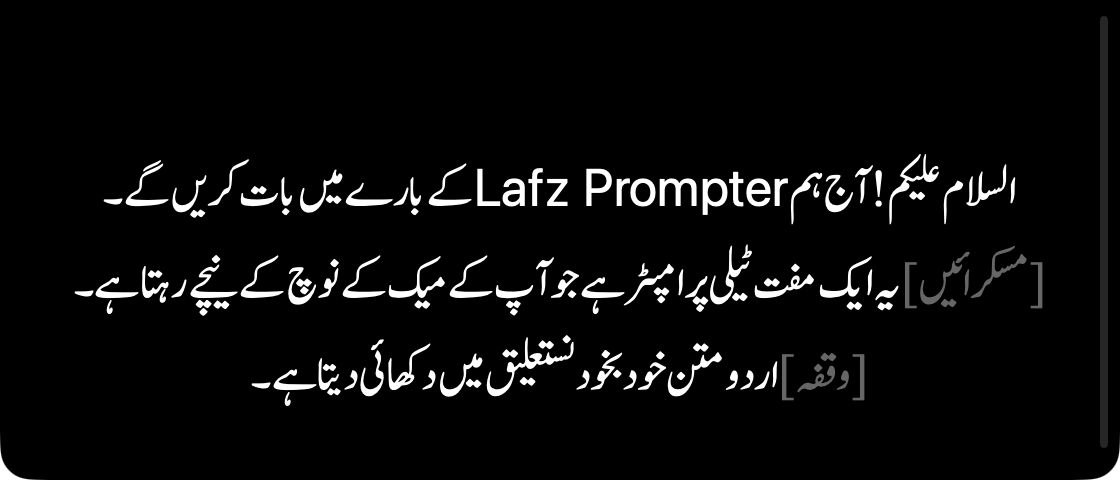
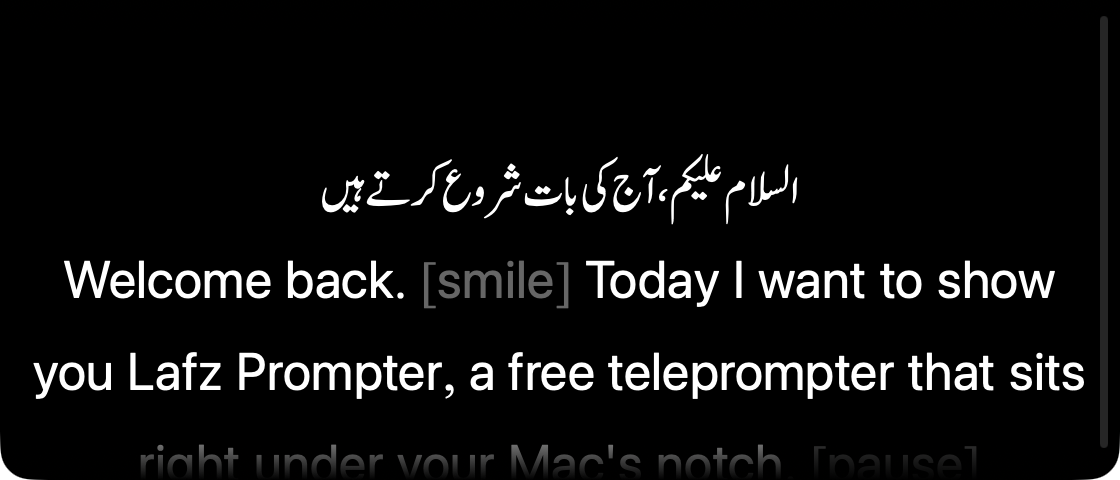
Make the website English-first with a hint of Urdu
Headline and copy now describe a general teleprompter. Urdu stays in the
logo, a small tagline, the screenshot's first line and one feature card.

diff --git a/docs/assets/main-CvcorN1z.css b/docs/assets/main-CvcorN1z.css
@@ -1,0 +1,1 @@
+*,:before,:after{--tw-border-spacing-x: 0;--tw-border-spacing-y: 0;--tw-translate-x: 0;--tw-translate-y: 0;--tw-rotate: 0;--tw-skew-x: 0;--tw-skew-y: 0;--tw-scale-x: 1;--tw-scale-y: 1;--tw-pan-x: ;--tw-pan-y: ;--tw-pinch-zoom: ;--tw-scroll-snap-strictness: proximity;--tw-gradient-from-position: ;--tw-gradient-via-position: ;--tw-gradient-to-position: ;--tw-ordinal: ;--tw-slashed-zero: ;--tw-numeric-figure: ;--tw-numeric-spacing: ;--tw-numeric-fraction: ;--tw-ring-inset: ;--tw-ring-offset-width: 0px;--tw-ring-offset-color: #fff;--tw-ring-color: rgb(59 130 246 / .5);--tw-ring-offset-shadow: 0 0 #0000;--tw-ring-shadow: 0 0 #0000;--tw-shadow: 0 0 #0000;--tw-shadow-colored: 0 0 #0000;--tw-blur: ;--tw-brightness: ;--tw-contrast: ;--tw-grayscale: ;--tw-hue-rotate: ;--tw-invert: ;--tw-saturate: ;--tw-sepia: ;--tw-drop-shadow: ;--tw-backdrop-blur: ;--tw-backdrop-brightness: ;--tw-backdrop-contrast: ;--tw-backdrop-grayscale: ;--tw-backdrop-hue-rotate: ;--tw-backdrop-invert: ;--tw-backdrop-opacity: ;--tw-backdrop-saturate: ;--tw-backdrop-sepia: ;--tw-contain-size: ;--tw-contain-layout: ;--tw-contain-paint: ;--tw-contain-style: }::backdrop{--tw-border-spacing-x: 0;--tw-border-spacing-y: 0;--tw-translate-x: 0;--tw-translate-y: 0;--tw-rotate: 0;--tw-skew-x: 0;--tw-skew-y: 0;--tw-scale-x: 1;--tw-scale-y: 1;--tw-pan-x: ;--tw-pan-y: ;--tw-pinch-zoom: ;--tw-scroll-snap-strictness: proximity;--tw-gradient-from-position: ;--tw-gradient-via-position: ;--tw-gradient-to-position: ;--tw-ordinal: ;--tw-slashed-zero: ;--tw-numeric-figure: ;--tw-numeric-spacing: ;--tw-numeric-fraction: ;--tw-ring-inset: ;--tw-ring-offset-width: 0px;--tw-ring-offset-color: #fff;--tw-ring-color: rgb(59 130 246 / .5);--tw-ring-offset-shadow: 0 0 #0000;--tw-ring-shadow: 0 0 #0000;--tw-shadow: 0 0 #0000;--tw-shadow-colored: 0 0 #0000;--tw-blur: ;--tw-brightness: ;--tw-contrast: ;--tw-grayscale: ;--tw-hue-rotate: ;--tw-invert: ;--tw-saturate: ;--tw-sepia: ;--tw-drop-shadow: ;--tw-backdrop-blur: ;--tw-backdrop-brightness: ;--tw-backdrop-contrast: ;--tw-backdrop-grayscale: ;--tw-backdrop-hue-rotate: ;--tw-backdrop-invert: ;--tw-backdrop-opacity: ;--tw-backdrop-saturate: ;--tw-backdrop-sepia: ;--tw-contain-size: ;--tw-contain-layout: ;--tw-contain-paint: ;--tw-contain-style: }*,:before,:after{box-sizing:border-box;border-width:0;border-style:solid;border-color:#e5e7eb}:before,:after{--tw-content: ""}html,:host{line-height:1.5;-webkit-text-size-adjust:100%;-moz-tab-size:4;-o-tab-size:4;tab-size:4;font-family:ui-sans-serif,system-ui,sans-serif,"Apple Color Emoji","Segoe UI Emoji",Segoe UI Symbol,"Noto Color Emoji";font-feature-settings:normal;font-variation-settings:normal;-webkit-tap-highlight-color:transparent}body{margin:0;line-height:inherit}hr{height:0;color:inherit;border-top-width:1px}abbr:where([title]){-webkit-text-decoration:underline dotted;text-decoration:underline dotted}h1,h2,h3,h4,h5,h6{font-size:inherit;font-weight:inherit}a{color:inherit;text-decoration:inherit}b,strong{font-weight:bolder}code,kbd,samp,pre{font-family:ui-monospace,SFMono-Regular,Menlo,Monaco,Consolas,Liberation Mono,Courier New,monospace;font-feature-settings:normal;font-variation-settings:normal;font-size:1em}small{font-size:80%}sub,sup{font-size:75%;line-height:0;position:relative;vertical-align:baseline}sub{bottom:-.25em}sup{top:-.5em}table{text-indent:0;border-color:inherit;border-collapse:collapse}button,input,optgroup,select,textarea{font-family:inherit;font-feature-settings:inherit;font-variation-settings:inherit;font-size:100%;font-weight:inherit;line-height:inherit;letter-spacing:inherit;color:inherit;margin:0;padding:0}button,select{text-transform:none}button,input:where([type=button]),input:where([type=reset]),input:where([type=submit]){-webkit-appearance:button;background-color:transparent;background-image:none}:-moz-focusring{outline:auto}:-moz-ui-invalid{box-shadow:none}progress{vertical-align:baseline}::-webkit-inner-spin-button,::-webkit-outer-spin-button{height:auto}[type=search]{-webkit-appearance:textfield;outline-offset:-2px}::-webkit-search-decoration{-webkit-appearance:none}::-webkit-file-upload-button{-webkit-appearance:button;font:inherit}summary{display:list-item}blockquote,dl,dd,h1,h2,h3,h4,h5,h6,hr,figure,p,pre{margin:0}fieldset{margin:0;padding:0}legend{padding:0}ol,ul,menu{list-style:none;margin:0;padding:0}dialog{padding:0}textarea{resize:vertical}input::-moz-placeholder,textarea::-moz-placeholder{opacity:1;color:#9ca3af}input::placeholder,textarea::placeholder{opacity:1;color:#9ca3af}button,[role=button]{cursor:pointer}:disabled{cursor:default}img,svg,video,canvas,audio,iframe,embed,object{display:block;vertical-align:middle}img,video{max-width:100%;height:auto}[hidden]:where(:not([hidden=until-found])){display:none}.visible{visibility:visible}.invisible{visibility:hidden}.fixed{position:fixed}.left-0{left:0}.right-0{right:0}.top-0{top:0}.z-50{z-index:50}.mx-auto{margin-left:auto;margin-right:auto}.mb-10{margin-bottom:2.5rem}.mb-2{margin-bottom:.5rem}.mb-3{margin-bottom:.75rem}.mb-4{margin-bottom:1rem}.mb-6{margin-bottom:1.5rem}.mb-8{margin-bottom:2rem}.flex{display:flex}.inline-flex{display:inline-flex}.grid{display:grid}.hidden{display:none}.h-14{height:3.5rem}.h-20{height:5rem}.h-5{height:1.25rem}.h-7{height:1.75rem}.h-auto{height:auto}.w-20{width:5rem}.w-5{width:1.25rem}.w-7{width:1.75rem}.w-full{width:100%}.max-w-2xl{max-width:42rem}.max-w-3xl{max-width:48rem}.max-w-4xl{max-width:56rem}.max-w-5xl{max-width:64rem}.max-w-xl{max-width:36rem}.list-decimal{list-style-type:decimal}.flex-col{flex-direction:column}.items-center{align-items:center}.justify-between{justify-content:space-between}.gap-2{gap:.5rem}.gap-2\.5{gap:.625rem}.gap-3{gap:.75rem}.gap-4{gap:1rem}.gap-5{gap:1.25rem}.space-y-2>:not([hidden])~:not([hidden]){--tw-space-y-reverse: 0;margin-top:calc(.5rem * calc(1 - var(--tw-space-y-reverse)));margin-bottom:calc(.5rem * var(--tw-space-y-reverse))}.space-y-6>:not([hidden])~:not([hidden]){--tw-space-y-reverse: 0;margin-top:calc(1.5rem * calc(1 - var(--tw-space-y-reverse)));margin-bottom:calc(1.5rem * var(--tw-space-y-reverse))}.overflow-x-hidden{overflow-x:hidden}.text-balance{text-wrap:balance}.rounded-2xl{border-radius:1rem}.rounded-full{border-radius:9999px}.rounded-xl{border-radius:.75rem}.border{border-width:1px}.border-b{border-bottom-width:1px}.border-t{border-top-width:1px}.border-zinc-200{--tw-border-opacity: 1;border-color:rgb(228 228 231 / var(--tw-border-opacity, 1))}.bg-stone-50{--tw-bg-opacity: 1;background-color:rgb(250 250 249 / var(--tw-bg-opacity, 1))}.bg-stone-50\/80{background-color:#fafaf9cc}.bg-white{--tw-bg-opacity: 1;background-color:rgb(255 255 255 / var(--tw-bg-opacity, 1))}.bg-zinc-900{--tw-bg-opacity: 1;background-color:rgb(24 24 27 / var(--tw-bg-opacity, 1))}.p-2{padding:.5rem}.p-8{padding:2rem}.px-4{padding-left:1rem;padding-right:1rem}.px-8{padding-left:2rem;padding-right:2rem}.py-12{padding-top:3rem;padding-bottom:3rem}.py-2{padding-top:.5rem;padding-bottom:.5rem}.py-4{padding-top:1rem;padding-bottom:1rem}.py-6{padding-top:1.5rem;padding-bottom:1.5rem}.pb-10{padding-bottom:2.5rem}.pb-16{padding-bottom:4rem}.pb-20{padding-bottom:5rem}.pb-24{padding-bottom:6rem}.pl-5{padding-left:1.25rem}.pt-28{padding-top:7rem}.text-center{text-align:center}.text-2xl{font-size:1.5rem;line-height:2rem}.text-3xl{font-size:1.875rem;line-height:2.25rem}.text-\[13px\]{font-size:13px}.text-\[34px\]{font-size:34px}.text-base{font-size:1rem;line-height:1.5rem}.text-lg{font-size:1.125rem;line-height:1.75rem}.text-sm{font-size:.875rem;line-height:1.25rem}.text-xl{font-size:1.25rem;line-height:1.75rem}.text-xs{font-size:.75rem;line-height:1rem}.font-bold{font-weight:700}.font-extrabold{font-weight:800}.font-semibold{font-weight:600}.leading-\[1\.1\]{line-height:1.1}.leading-relaxed{line-height:1.625}.tracking-tight{letter-spacing:-.025em}.text-white{--tw-text-opacity: 1;color:rgb(255 255 255 / var(--tw-text-opacity, 1))}.text-zinc-400{--tw-text-opacity: 1;color:rgb(161 161 170 / var(--tw-text-opacity, 1))}.text-zinc-500{--tw-text-opacity: 1;color:rgb(113 113 122 / var(--tw-text-opacity, 1))}.text-zinc-600{--tw-text-opacity: 1;color:rgb(82 82 91 / var(--tw-text-opacity, 1))}.text-zinc-900{--tw-text-opacity: 1;color:rgb(24 24 27 / var(--tw-text-opacity, 1))}.underline{text-decoration-line:underline}.antialiased{-webkit-font-smoothing:antialiased;-moz-osx-font-smoothing:grayscale}.shadow-lg{--tw-shadow: 0 10px 15px -3px rgb(0 0 0 / .1), 0 4px 6px -4px rgb(0 0 0 / .1);--tw-shadow-colored: 0 10px 15px -3px var(--tw-shadow-color), 0 4px 6px -4px var(--tw-shadow-color);box-shadow:var(--tw-ring-offset-shadow, 0 0 #0000),var(--tw-ring-shadow, 0 0 #0000),var(--tw-shadow)}.shadow-xl{--tw-shadow: 0 20px 25px -5px rgb(0 0 0 / .1), 0 8px 10px -6px rgb(0 0 0 / .1);--tw-shadow-colored: 0 20px 25px -5px var(--tw-shadow-color), 0 8px 10px -6px var(--tw-shadow-color);box-shadow:var(--tw-ring-offset-shadow, 0 0 #0000),var(--tw-ring-shadow, 0 0 #0000),var(--tw-shadow)}.backdrop-blur-xl{--tw-backdrop-blur: blur(24px);-webkit-backdrop-filter:var(--tw-backdrop-blur) var(--tw-backdrop-brightness) var(--tw-backdrop-contrast) var(--tw-backdrop-grayscale) var(--tw-backdrop-hue-rotate) var(--tw-backdrop-invert) var(--tw-backdrop-opacity) var(--tw-backdrop-saturate) var(--tw-backdrop-sepia);backdrop-filter:var(--tw-backdrop-blur) var(--tw-backdrop-brightness) var(--tw-backdrop-contrast) var(--tw-backdrop-grayscale) var(--tw-backdrop-hue-rotate) var(--tw-backdrop-invert) var(--tw-backdrop-opacity) var(--tw-backdrop-saturate) var(--tw-backdrop-sepia)}.transition-colors{transition-property:color,background-color,border-color,text-decoration-color,fill,stroke;transition-timing-function:cubic-bezier(.4,0,.2,1);transition-duration:.15s}:root{font-family:Inter,system-ui,-apple-system,BlinkMacSystemFont,Segoe UI,Roboto,sans-serif;line-height:1.5;font-weight:400;color-scheme:light;font-synthesis:none;text-rendering:optimizeLegibility;-webkit-font-smoothing:antialiased;-moz-osx-font-smoothing:grayscale}body{margin:0;padding:0;overflow-x:hidden}html{scroll-behavior:smooth;overflow-x:hidden}[id]{scroll-margin-top:4rem}details summary::-webkit-details-marker{display:none}details summary{list-style:none}.urdu,.logo-mark{font-family:Noto Nastaliq Urdu,Jameel Noori Nastaleeq,serif}.urdu{line-height:2.2}.logo-mark{display:inline-flex;align-items:center;justify-content:center;border-radius:22%;background:#18181b;color:#fafaf9;line-height:1;padding-bottom:.25em}.feature{border-radius:.75rem;border-width:1px;--tw-border-opacity: 1;border-color:rgb(228 228 231 / var(--tw-border-opacity, 1));--tw-bg-opacity: 1;background-color:rgb(255 255 255 / var(--tw-bg-opacity, 1));padding:1.5rem}.feature h3{margin-bottom:.25rem;font-size:.875rem;line-height:1.25rem;font-weight:600;--tw-text-opacity: 1;color:rgb(24 24 27 / var(--tw-text-opacity, 1))}.feature p{font-size:.75rem;line-height:1rem;line-height:1.625;--tw-text-opacity: 1;color:rgb(113 113 122 / var(--tw-text-opacity, 1))}.hover\:bg-zinc-700:hover{--tw-bg-opacity: 1;background-color:rgb(63 63 70 / var(--tw-bg-opacity, 1))}.hover\:text-zinc-900:hover{--tw-text-opacity: 1;color:rgb(24 24 27 / var(--tw-text-opacity, 1))}@media (min-width: 640px){.sm\:grid-cols-2{grid-template-columns:repeat(2,minmax(0,1fr))}.sm\:flex-row{flex-direction:row}.sm\:px-6{padding-left:1.5rem;padding-right:1.5rem}.sm\:pb-14{padding-bottom:3.5rem}.sm\:pt-36{padding-top:9rem}.sm\:text-2xl{font-size:1.5rem;line-height:2rem}.sm\:text-4xl{font-size:2.25rem;line-height:2.5rem}.sm\:text-sm{font-size:.875rem;line-height:1.25rem}}@media (min-width: 768px){.md\:text-3xl{font-size:1.875rem;line-height:2.25rem}.md\:text-5xl{font-size:3rem;line-height:1}.md\:text-lg{font-size:1.125rem;line-height:1.75rem}}@media (min-width: 1024px){.lg\:grid-cols-3{grid-template-columns:repeat(3,minmax(0,1fr))}}

diff --git a/docs/index.html b/docs/index.html
@@ -3,20 +3,20 @@
 <head>
   <meta charset="UTF-8" />
   <meta name="viewport" content="width=device-width, initial-scale=1.0" />
-  <title>Lafz Prompter: free Urdu and English teleprompter for macOS</title>
-  <meta name="description" content="A free, open-source teleprompter that sits under your Mac's notch. Urdu scripts show in Nastaliq automatically. Hidden from screen recordings. MIT licensed.">
+  <title>Lafz Prompter: free teleprompter for macOS</title>
+  <meta name="description" content="A free, open-source teleprompter that sits under your Mac's notch, hidden from screen recordings. Reads Urdu too. MIT licensed.">
   <link rel="preconnect" href="https://fonts.googleapis.com">
   <link rel="preconnect" href="https://fonts.gstatic.com" crossorigin>
   <link href="https://fonts.googleapis.com/css2?family=Inter:wght@400;500;600;700;800&family=Noto+Nastaliq+Urdu:wght@500;700&display=swap" rel="stylesheet">
 
-  <meta property="og:title" content="Lafz Prompter: free Urdu and English teleprompter for macOS">
-  <meta property="og:description" content="A free, open-source teleprompter that sits under your Mac's notch. Urdu in Nastaliq, hidden from screen recordings.">
+  <meta property="og:title" content="Lafz Prompter: free teleprompter for macOS">
+  <meta property="og:description" content="A free, open-source teleprompter that sits under your Mac's notch, hidden from screen recordings.">
   <meta property="og:type" content="website">
   <meta property="og:url" content="https://lafz.waqasrana.space">
   <meta property="og:image" content="https://lafz.waqasrana.space/screenshot.png">
   <meta name="twitter:card" content="summary_large_image">
-  <script type="module" crossorigin src="./assets/main-RcqikS0K.js"></script>
-  <link rel="stylesheet" crossorigin href="./assets/main-DxUyGCj4.css">
+  <script type="module" crossorigin src="./assets/main-BMgQIglH.js"></script>
+  <link rel="stylesheet" crossorigin href="./assets/main-CvcorN1z.css">
 </head>
 <body class="bg-stone-50 text-zinc-900 antialiased overflow-x-hidden">
 
@@ -40,12 +40,12 @@
     <div class="flex flex-col items-center text-center px-4 sm:px-6 max-w-3xl mx-auto">
       <span class="logo-mark w-20 h-20 text-[34px] mb-6 shadow-lg" aria-hidden="true">لفظ</span>
       <h1 class="text-3xl sm:text-4xl md:text-5xl font-extrabold tracking-tight leading-[1.1] mb-4 max-w-2xl text-balance">
-        A teleprompter under your notch, in Urdu and English
+        A teleprompter that sits under your notch
       </h1>
-      <p class="urdu text-2xl sm:text-3xl text-zinc-700 mb-6" lang="ur" dir="rtl">آپ بولیں، لفظ ساتھ چلیں</p>
+      <p class="urdu text-xl sm:text-2xl text-zinc-500 mb-6" lang="ur" dir="rtl">آپ بولیں، لفظ ساتھ چلیں</p>
       <p class="text-base md:text-lg text-zinc-500 max-w-xl leading-relaxed mb-8">
-        Free, open-source macOS app that keeps your script right under the camera.
-        Urdu scripts show in Nastaliq automatically, and the prompter is hidden from screen recordings and screen sharing.
+        Free, open-source macOS app that keeps your script right under the camera,
+        hidden from screen recordings and screen sharing. It reads Urdu too.
       </p>
       <a href="https://github.com/ranawaqas-ai/lafz-prompter/releases/latest/download/LafzPrompter.zip" class="inline-flex items-center gap-2 px-8 py-4 bg-zinc-900 hover:bg-zinc-700 transition-colors text-white rounded-full text-base font-semibold mb-3">
         <svg class="w-5 h-5" viewBox="0 0 24 24" fill="none" stroke="currentColor" stroke-width="2" stroke-linecap="round" stroke-linejoin="round"><path d="M12 3v12m0 0l-5-5m5 5l5-5M4 19h16"/></svg>
@@ -56,16 +56,12 @@
   </section>
 
   <section class="max-w-3xl mx-auto px-4 sm:px-6 pb-16">
-    <img src="./screenshot.png" width="1120" height="480" alt="Lafz Prompter showing an Urdu script in Nastaliq, with stage directions in brackets" class="w-full h-auto rounded-2xl shadow-xl" />
+    <img src="./screenshot.png" width="1120" height="480" alt="Lafz Prompter showing a script with an Urdu greeting and stage directions in brackets" class="w-full h-auto rounded-2xl shadow-xl" />
   </section>
 
   <section id="features" class="max-w-4xl mx-auto px-4 sm:px-6 pb-20">
     <h2 class="text-2xl md:text-3xl font-bold tracking-tight text-center mb-10">Features</h2>
     <div class="grid sm:grid-cols-2 lg:grid-cols-3 gap-5">
-      <div class="feature">
-        <h3>Urdu in Nastaliq</h3>
-        <p>Urdu scripts are set in Jameel Noori Nastaleeq or Noto Nastaliq Urdu automatically, with English words kept in the system font. Any installed font can be picked instead.</p>
-      </div>
       <div class="feature">
         <h3>Hidden from recordings</h3>
         <p>Optionally invisible to screen recordings, Zoom, Meet and other screen sharing.</p>
@@ -86,6 +82,10 @@
         <h3>Adjustable</h3>
         <p>Speed, text size, alignment, line spacing, fades, size and position, and dark or light themes. Works on any display.</p>
       </div>
+      <div class="feature">
+        <h3>Urdu too</h3>
+        <p>Urdu text is set in Nastaliq automatically, using Jameel Noori Nastaleeq or Noto Nastaliq Urdu. Any installed font can be picked instead.</p>
+      </div>
     </div>
   </section>
 
@@ -95,7 +95,7 @@
       <li>Download the zip and drag <strong>Lafz Prompter</strong> into your Applications folder.</li>
       <li>The app is not signed with an Apple Developer ID, so the first time, right-click it and choose <strong>Open</strong>. If macOS still blocks it, go to System Settings, Privacy &amp; Security, and click <strong>Open Anyway</strong>.</li>
       <li>It lives in the menu bar. Open Settings from there to paste your script.</li>
-      <li>For Nastaliq, install <a class="underline hover:text-zinc-900" href="https://fonts.google.com/noto/specimen/Noto+Nastaliq+Urdu" target="_blank" rel="noopener noreferrer">Noto Nastaliq Urdu</a> or Jameel Noori Nastaleeq if you don't have one already.</li>
+      <li>For Urdu scripts, install <a class="underline hover:text-zinc-900" href="https://fonts.google.com/noto/specimen/Noto+Nastaliq+Urdu" target="_blank" rel="noopener noreferrer">Noto Nastaliq Urdu</a> or Jameel Noori Nastaleeq if you don't have one already.</li>
     </ol>
   </section>
 

diff --git a/website/index.html b/website/index.html
@@ -3,14 +3,14 @@
 <head>
   <meta charset="UTF-8" />
   <meta name="viewport" content="width=device-width, initial-scale=1.0" />
-  <title>Lafz Prompter: free Urdu and English teleprompter for macOS</title>
-  <meta name="description" content="A free, open-source teleprompter that sits under your Mac's notch. Urdu scripts show in Nastaliq automatically. Hidden from screen recordings. MIT licensed.">
+  <title>Lafz Prompter: free teleprompter for macOS</title>
+  <meta name="description" content="A free, open-source teleprompter that sits under your Mac's notch, hidden from screen recordings. Reads Urdu too. MIT licensed.">
   <link rel="preconnect" href="https://fonts.googleapis.com">
   <link rel="preconnect" href="https://fonts.gstatic.com" crossorigin>
   <link href="https://fonts.googleapis.com/css2?family=Inter:wght@400;500;600;700;800&family=Noto+Nastaliq+Urdu:wght@500;700&display=swap" rel="stylesheet">
 
-  <meta property="og:title" content="Lafz Prompter: free Urdu and English teleprompter for macOS">
-  <meta property="og:description" content="A free, open-source teleprompter that sits under your Mac's notch. Urdu in Nastaliq, hidden from screen recordings.">
+  <meta property="og:title" content="Lafz Prompter: free teleprompter for macOS">
+  <meta property="og:description" content="A free, open-source teleprompter that sits under your Mac's notch, hidden from screen recordings.">
   <meta property="og:type" content="website">
   <meta property="og:url" content="https://lafz.waqasrana.space">
   <meta property="og:image" content="https://lafz.waqasrana.space/screenshot.png">
@@ -38,12 +38,12 @@
     <div class="flex flex-col items-center text-center px-4 sm:px-6 max-w-3xl mx-auto">
       <span class="logo-mark w-20 h-20 text-[34px] mb-6 shadow-lg" aria-hidden="true">لفظ</span>
       <h1 class="text-3xl sm:text-4xl md:text-5xl font-extrabold tracking-tight leading-[1.1] mb-4 max-w-2xl text-balance">
-        A teleprompter under your notch, in Urdu and English
+        A teleprompter that sits under your notch
       </h1>
-      <p class="urdu text-2xl sm:text-3xl text-zinc-700 mb-6" lang="ur" dir="rtl">آپ بولیں، لفظ ساتھ چلیں</p>
+      <p class="urdu text-xl sm:text-2xl text-zinc-500 mb-6" lang="ur" dir="rtl">آپ بولیں، لفظ ساتھ چلیں</p>
       <p class="text-base md:text-lg text-zinc-500 max-w-xl leading-relaxed mb-8">
-        Free, open-source macOS app that keeps your script right under the camera.
-        Urdu scripts show in Nastaliq automatically, and the prompter is hidden from screen recordings and screen sharing.
+        Free, open-source macOS app that keeps your script right under the camera,
+        hidden from screen recordings and screen sharing. It reads Urdu too.
       </p>
       <a href="https://github.com/ranawaqas-ai/lafz-prompter/releases/latest/download/LafzPrompter.zip" class="inline-flex items-center gap-2 px-8 py-4 bg-zinc-900 hover:bg-zinc-700 transition-colors text-white rounded-full text-base font-semibold mb-3">
         <svg class="w-5 h-5" viewBox="0 0 24 24" fill="none" stroke="currentColor" stroke-width="2" stroke-linecap="round" stroke-linejoin="round"><path d="M12 3v12m0 0l-5-5m5 5l5-5M4 19h16"/></svg>
@@ -54,16 +54,12 @@
   </section>
 
   <section class="max-w-3xl mx-auto px-4 sm:px-6 pb-16">
-    <img src="/screenshot.png" width="1120" height="480" alt="Lafz Prompter showing an Urdu script in Nastaliq, with stage directions in brackets" class="w-full h-auto rounded-2xl shadow-xl" />
+    <img src="/screenshot.png" width="1120" height="480" alt="Lafz Prompter showing a script with an Urdu greeting and stage directions in brackets" class="w-full h-auto rounded-2xl shadow-xl" />
   </section>
 
   <section id="features" class="max-w-4xl mx-auto px-4 sm:px-6 pb-20">
     <h2 class="text-2xl md:text-3xl font-bold tracking-tight text-center mb-10">Features</h2>
     <div class="grid sm:grid-cols-2 lg:grid-cols-3 gap-5">
-      <div class="feature">
-        <h3>Urdu in Nastaliq</h3>
-        <p>Urdu scripts are set in Jameel Noori Nastaleeq or Noto Nastaliq Urdu automatically, with English words kept in the system font. Any installed font can be picked instead.</p>
-      </div>
       <div class="feature">
         <h3>Hidden from recordings</h3>
         <p>Optionally invisible to screen recordings, Zoom, Meet and other screen sharing.</p>
@@ -84,6 +80,10 @@
         <h3>Adjustable</h3>
         <p>Speed, text size, alignment, line spacing, fades, size and position, and dark or light themes. Works on any display.</p>
       </div>
+      <div class="feature">
+        <h3>Urdu too</h3>
+        <p>Urdu text is set in Nastaliq automatically, using Jameel Noori Nastaleeq or Noto Nastaliq Urdu. Any installed font can be picked instead.</p>
+      </div>
     </div>
   </section>
 
@@ -93,7 +93,7 @@
       <li>Download the zip and drag <strong>Lafz Prompter</strong> into your Applications folder.</li>
       <li>The app is not signed with an Apple Developer ID, so the first time, right-click it and choose <strong>Open</strong>. If macOS still blocks it, go to System Settings, Privacy &amp; Security, and click <strong>Open Anyway</strong>.</li>
       <li>It lives in the menu bar. Open Settings from there to paste your script.</li>
-      <li>For Nastaliq, install <a class="underline hover:text-zinc-900" href="https://fonts.google.com/noto/specimen/Noto+Nastaliq+Urdu" target="_blank" rel="noopener noreferrer">Noto Nastaliq Urdu</a> or Jameel Noori Nastaleeq if you don't have one already.</li>
+      <li>For Urdu scripts, install <a class="underline hover:text-zinc-900" href="https://fonts.google.com/noto/specimen/Noto+Nastaliq+Urdu" target="_blank" rel="noopener noreferrer">Noto Nastaliq Urdu</a> or Jameel Noori Nastaleeq if you don't have one already.</li>
     </ol>
   </section>
 

diff --git a/docs/privacy-policy.html b/docs/privacy-policy.html
@@ -8,8 +8,8 @@
   <link rel="preconnect" href="https://fonts.googleapis.com">
   <link rel="preconnect" href="https://fonts.gstatic.com" crossorigin>
   <link href="https://fonts.googleapis.com/css2?family=Inter:wght@400;500;600;700&family=Noto+Nastaliq+Urdu:wght@500&display=swap" rel="stylesheet">
-  <script type="module" crossorigin src="./assets/main-RcqikS0K.js"></script>
-  <link rel="stylesheet" crossorigin href="./assets/main-DxUyGCj4.css">
+  <script type="module" crossorigin src="./assets/main-BMgQIglH.js"></script>
+  <link rel="stylesheet" crossorigin href="./assets/main-CvcorN1z.css">
 </head>
 <body class="bg-stone-50 text-zinc-900 antialiased">
 
